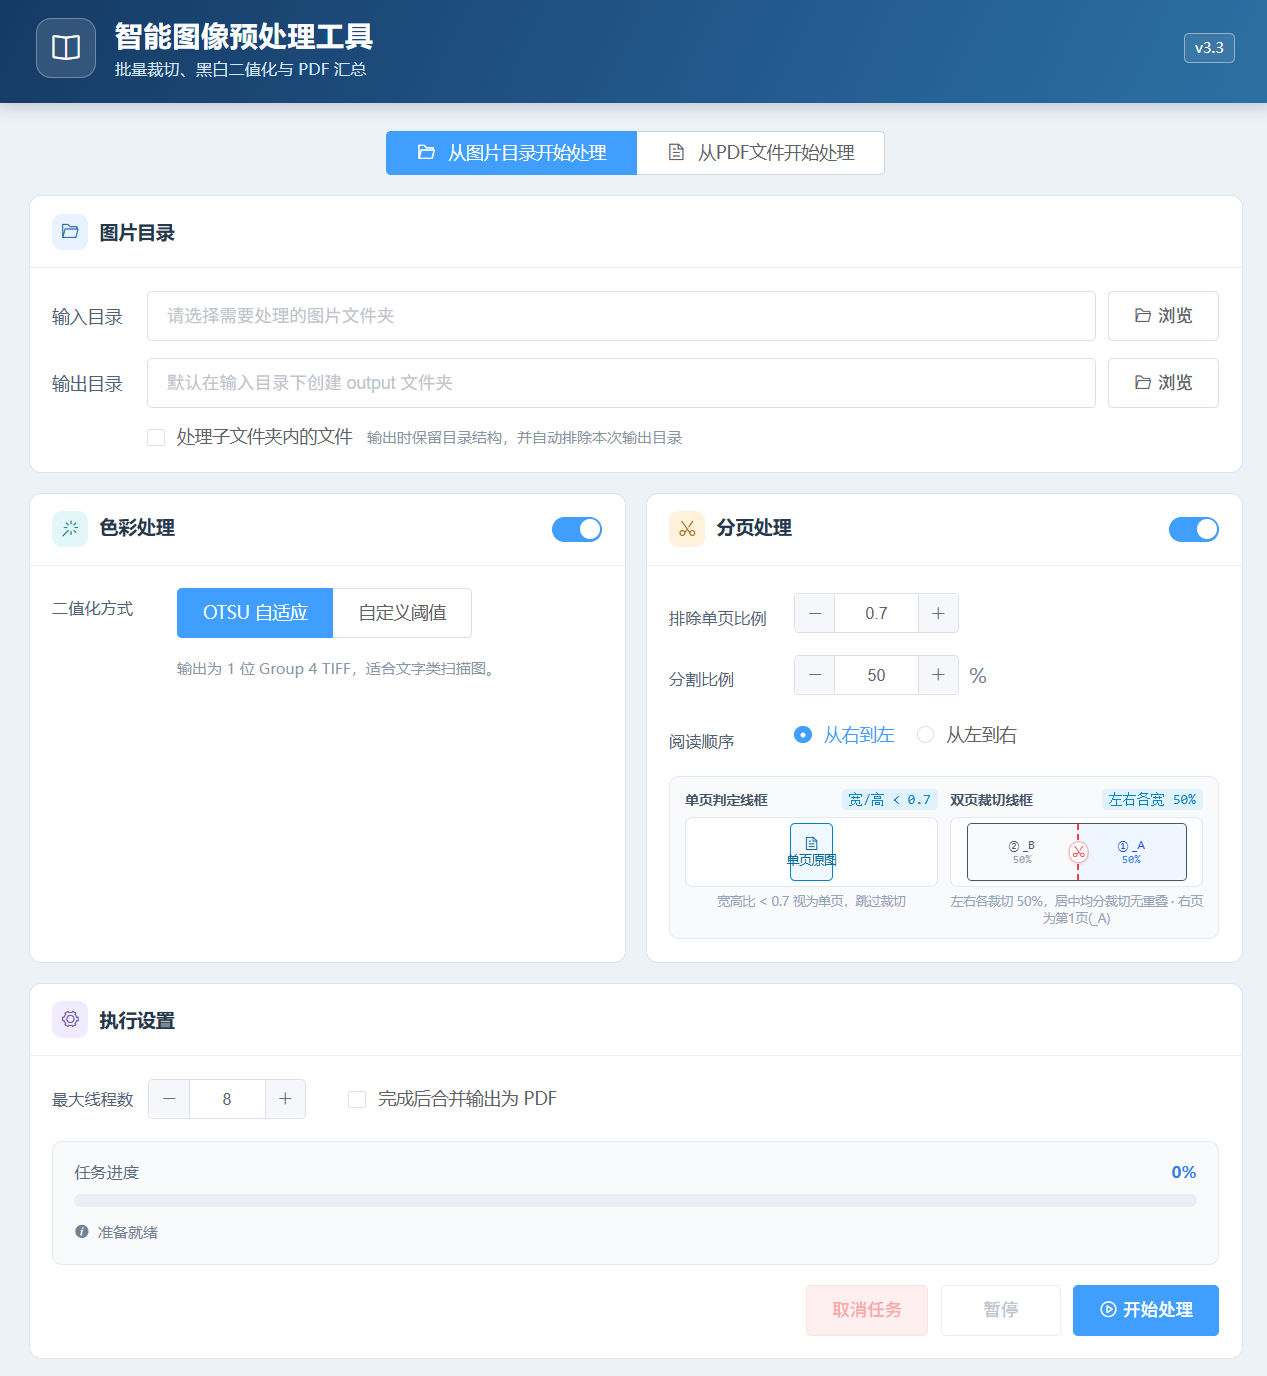
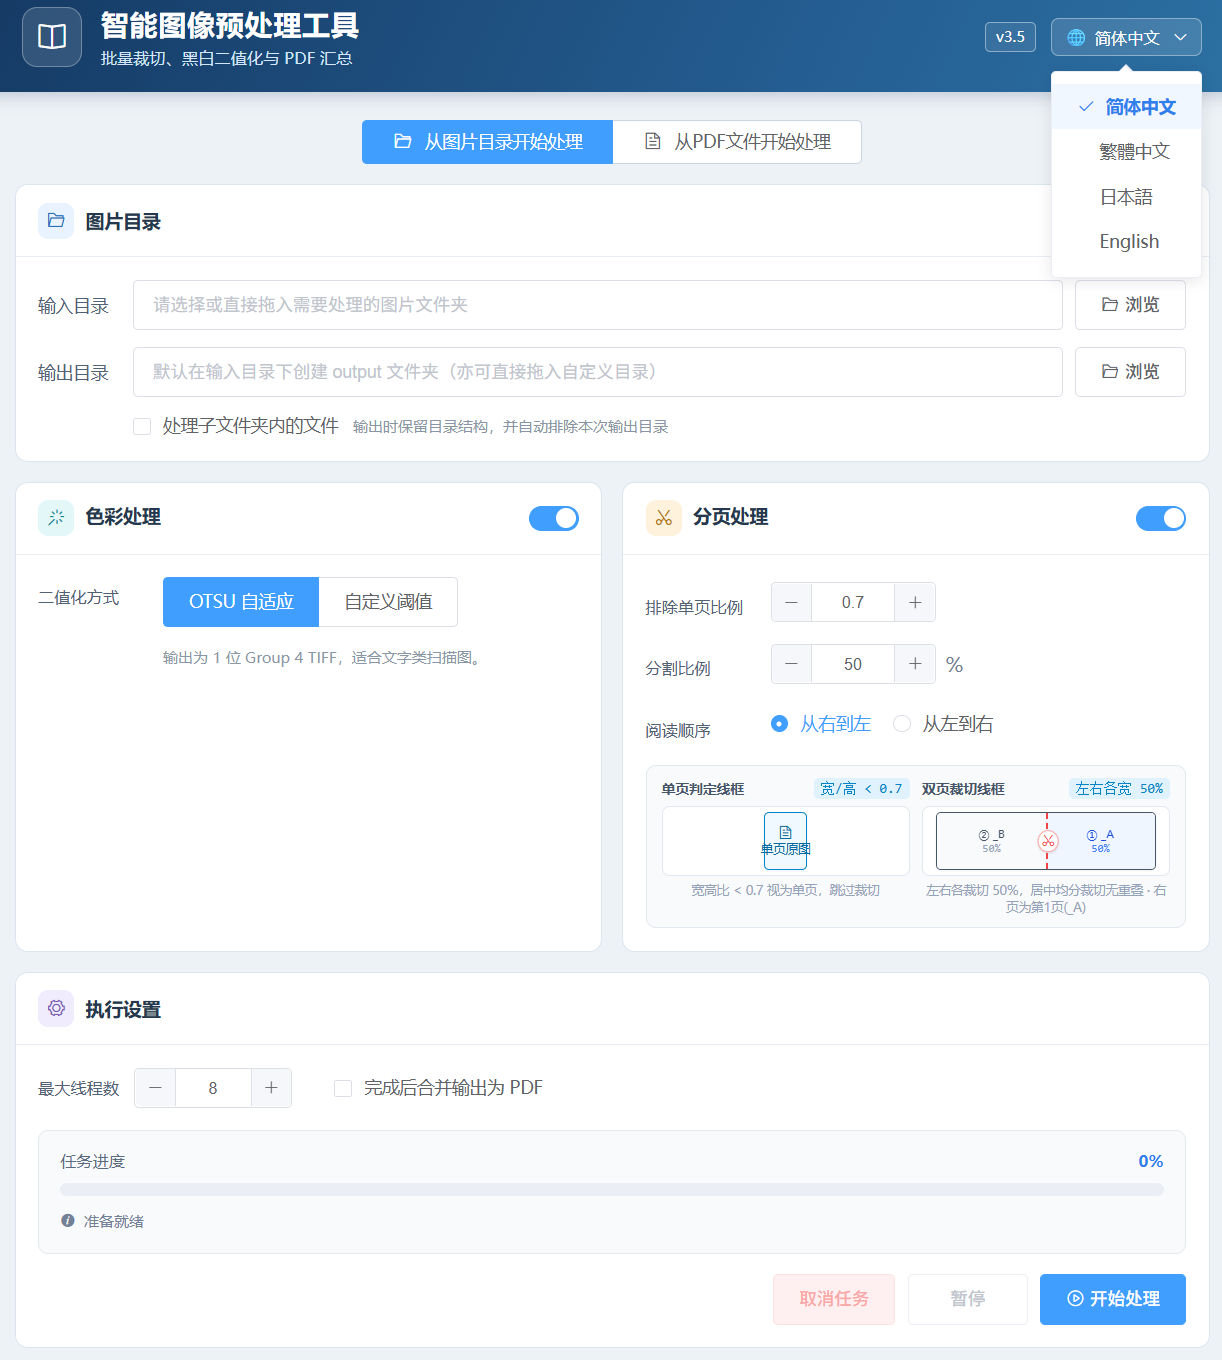
docs: add traditional chinese user guide and update webui.jpg

diff --git a/使用說明.md b/使用說明.md
@@ -1,0 +1,119 @@
+# 智能圖像預處理工具 (v3.5) 用戶操作使用說明
+
+---
+
+## 一、軟體簡介與免安裝特性
+
+**智能圖像預處理工具（c2bw）** 是一款專為古籍善本、掃描書籍、學術文獻及檔案數位化設計的批次預處理與重構工具。
+
+- **單檔案綠色免安裝**：無需安裝 Python 或任何第三方環境，按兩下直接執行；
+- **全格式相容**：原生支援 JPG、JPEG、PNG、TIF、TIFF、BMP、JP2（JPEG 2000）等圖像格式，以及掃描圖片封裝型的 PDF 文件；
+- **純本機離線安全**：執行過程中不產生任何外部網路請求，自動向作業系統核心申請臨時隨機閒置連接埠，支援同時多開執行，無連接埠衝突；
+- **高畫質與極致壓縮**：採用工業級 1 位元 CCITT Group 4 演算法二值化與底層 PDF 資料流直通封裝，百頁黑白 PDF 僅數百 KB，字跡銳利且白底黑字絕不反相；
+- **多語言自動適配**：原生支援簡體中文、繁體中文、日本語、English。啟動時自動識別系統語言，未符合時預設使用簡體中文；亦可隨時在右上角手動切換並自動記憶；任務執行記錄檔及輸出報告（`task_report.txt`）同步依所選語言生成。
+
+---
+
+## 二、快速上手：兩種工作模式
+
+開啟程式後，介面頂部可直接切換兩種工作模式：
+
+```
+[ 從圖片目錄開始處理 ]    [ 從PDF文件開始處理 ]
+```
+
+### 模式 1：從圖片目錄開始處理（推薦常規掃描圖批次處理）
+
+適用於處理已匯出的成批掃描圖片。
+
+#### 操作步驟：
+1. **指定輸入目錄**：
+   - 點擊 **【瀏覽】** 選擇圖片資料夾；或者**直接從 Windows 檔案總管將資料夾拖入程式介面**。
+   - *(可選)* 勾選 **“處理子資料夾內的檔案”**：如包含多級子目錄，程式會自動遞迴處理並完整保留原有目錄層級結構。
+2. **指定輸出目錄**：
+   - 預設會自動在輸入目錄下建立 `output` 資料夾；亦可點擊【瀏覽】或直接拖入自訂資料夾。
+3. **設定處理參數**（詳見後文“參數設定詳解”）：
+   - 根據需要開啟或關閉 **【色彩處理】**（黑白二值化 / 保持原格式 / 轉為 JPG）；
+   - 根據需要開啟或關閉 **【分頁處理】**（雙頁智慧拆分 / 自動跳過封面）。
+4. **選擇是否合成 PDF**：
+   - 在底部執行設定中勾選 **“完成後合併輸出為 PDF”**；
+   - 若勾選，預設在生成 PDF 後自動清理中間處理圖片；如需同時保留處理後的圖片檔案，可勾選 **“合成PDF後保留處理後的圖片”**。
+5. **開始處理**：
+   - 點擊右下角 **【開始處理】**，進度條即時顯示當前處理進度與檔案名稱；
+   - 任務完成後會自動彈出處理統計明細，並在輸出目錄儲存 `task_report.txt`。
+
+---
+
+### 模式 2：從 PDF 文件開始處理（掃描版 PDF 重構與提取）
+
+專門用於直接對圖片型 PDF（如掃描古籍、舊版期刊、插圖漫畫等）進行分頁提取與批次重構。
+
+> **注意**：本模式僅針對由圖片生成的 PDF（掃描件）；非掃描的向量純文字排版類 PDF 請勿使用本模式。
+
+#### 常用場景與操作：
+
+- **場景 A：僅從 PDF 無損提取全部原始圖片（提取神器）**
+  1. 拖入或選擇 PDF 檔案；
+  2. 保持【色彩處理】與【分頁處理】處於**關閉**狀態；
+  3. 勾選 **“不轉換為PDF (僅保留處理後的圖片檔案)”**；
+  4. 點擊 **【開始處理】**：軟體將全自動提取 PDF 內部的所有原始圖片到同名資料夾，不損失任何畫質。
+
+- **場景 B：掃描 PDF 裁切並二值化為高畫質極小體積新 PDF（文件重構）**
+  1. 拖入或選擇 PDF 檔案；
+  2. 開啟【分頁處理】（將跨頁拆為單頁）及【色彩處理】（轉為清爽黑白二值圖）；
+  3. 保持“不轉換為PDF”為**未勾選**狀態；
+  4. 點擊 **【開始處理】**：程式流水線式提取圖片、拆頁、二值化，並重新合併為一份標準化單頁檢視的新 PDF，處理完畢後自動清理臨時解壓縮的圖片。
+
+- **場景 C：掃描 PDF 拆頁處理，但僅需輸出圖片資料夾**
+  1. 拖入或選擇 PDF 檔案；
+  2. 開啟【分頁處理】或【色彩處理】；
+  3. 勾選 **“不轉換為PDF (僅保留處理後的圖片檔案)”**；
+  4. 點擊 **【開始處理】**：輸出目錄將儲存處理後的全部圖片，不封裝為 PDF。
+
+---
+
+## 三、核心功能與參數詳解
+
+### 1. 色彩處理
+
+| 選項 | 適用場景與效果 |
+| :--- | :--- |
+| **關閉色彩處理** | **保持原格式與品質**：保留原始檔案格式（JPG/PNG/JP2/TIFF 等）及編碼參數，不重新壓縮；<br>**轉為 JPG（品質 80）**：統一轉換為通用 JPG 格式，體積適中，適合網路分發。 |
+| **開啟色彩處理**<br>（黑白二值化） | **OTSU 自適應**（推薦）：由演算法自動分析頁面光影與墨跡深度，自適應計算最佳分界閾值；<br>**自訂閾值**（0%~100%）：根據掃描件濃淡手動微調。<br>*說明：二值化後統一輸出為標準 1 位元 Group 4 TIFF，文字銳利平滑，徹底消除紙張泛黃底灰。* |
+
+### 2. 分頁處理（雙頁智慧裁切）
+
+針對書籍跨頁掃描（一張圖片包含左、右兩頁）設計，配有即時動態線框預覽：
+
+- **排除單頁比例（寬高比）**（預設 `1.2`）：
+  - 判定公式：圖片寬度 ÷ 圖片高度。
+  - 當長寬比小於此閾值時，程式自動識別該圖片為封面、封底或單頁插圖，**自動跳過裁切**，原樣保留；
+  - 大於等於此閾值時，自動執行雙頁拆分。
+- **分割比例（P%）**（預設 `50%`）：
+  - 設定為 **50%** 時：從中線平均等分，左、右各占原圖 50% 寬度；
+  - 設定為 **大於 50%**（如 `52%`）：左、右各取原圖 52% 寬度，中間自動產生 **4% 的中縫重疊保護區**，可有效避免書籍裝訂線處的文字被切除；
+  - 設定為 **小於 50%**（如 `48%`）：中間產生裁切留白縫隙。
+- **閱讀順序**：
+  - **從右到左**：適合古籍善本、港台直排書籍，右半頁標為第一頁（`_A`），左半頁標為第二頁（`_B`）；
+  - **從左到右**：適合現代橫排版書籍，左半頁為 `_A`，右半頁為 `_B`。
+
+### 3. 執行設定
+
+- **最大線程數**：預設依電腦實體核心數配置，可自由設定（1~64）。多線程並行處理極大加快批次高解析度圖的處理效率；
+- **暫停與取消**：
+  - 處理過程中可隨時點擊 **【暫停】**，再次點擊可無縫繼續；
+  - 點擊 **【取消任務】** 會安全終止後續排隊，保護當前已寫入磁碟檔案的完整性。
+
+---
+
+## 四、實用技巧與注意事項
+
+1. **直接拖曳支援**：
+   - 可以在任何時候將**圖片資料夾**或 **.pdf 檔案**直接拖入軟體視窗，無需手動逐層點選目錄。
+2. **輸出目錄保護**：
+   - 為避免原圖被覆蓋，輸出目錄**不能**與輸入目錄相同，也不能是輸入目錄的上層目錄。
+3. **生成的 PDF 特性說明**：
+   - 若開啟了二值化並輸出 PDF，程式使用底層標準 CCITT Group 4 傳真流封裝，不僅體積超小，且內建閱讀器黑白底色校準，在 Adobe Acrobat、Edge、Chrome、SumatraPDF 等主流閱讀器中均顯示為標準白底黑字；
+   - 輸出 PDF 預設內建了“單頁適合視窗”（SinglePage / Fit）檢視指令，開啟即為最佳閱讀比例。
+4. **任務記錄檔備查**：
+   - 每次任務結束，輸出目錄下都會自動生成一份 `task_report.txt`，清楚記錄處理開始時間、所用參數、排除單頁數、裁切雙頁數及最終生成總頁數，便於建檔校對。

diff --git a/README.md b/README.md
@@ -8,7 +8,7 @@
 
 当前版本：**v3.5**
 
-> 📖 **[点击查看：单文件版本详细用户操作使用说明 (使用说明.md)](使用说明.md)**
+> 📖 **[点击查看：单文件版本详细用户操作使用说明 (简体中文)](使用说明.md) | [點擊查看：單文件版本詳細用戶操作使用說明 (繁體中文)](使用說明.md)**
 
 ### 核心特性
 
@@ -53,7 +53,8 @@
 
 ```text
 c2bw.py                 主程序（图像处理算法、PDF 底层封装、Web 服务与 GUI）
-使用说明.md             单文件版本用户操作使用说明
+使用说明.md             单文件版本用户操作使用说明（简体中文）
+使用說明.md             單文件版本用戶操作使用說明（繁體中文）
 webui/                  Vue 2 + Element UI 现代化前端资源
   index.html            界面结构
   app.js                Vue 业务逻辑与桥接调用
